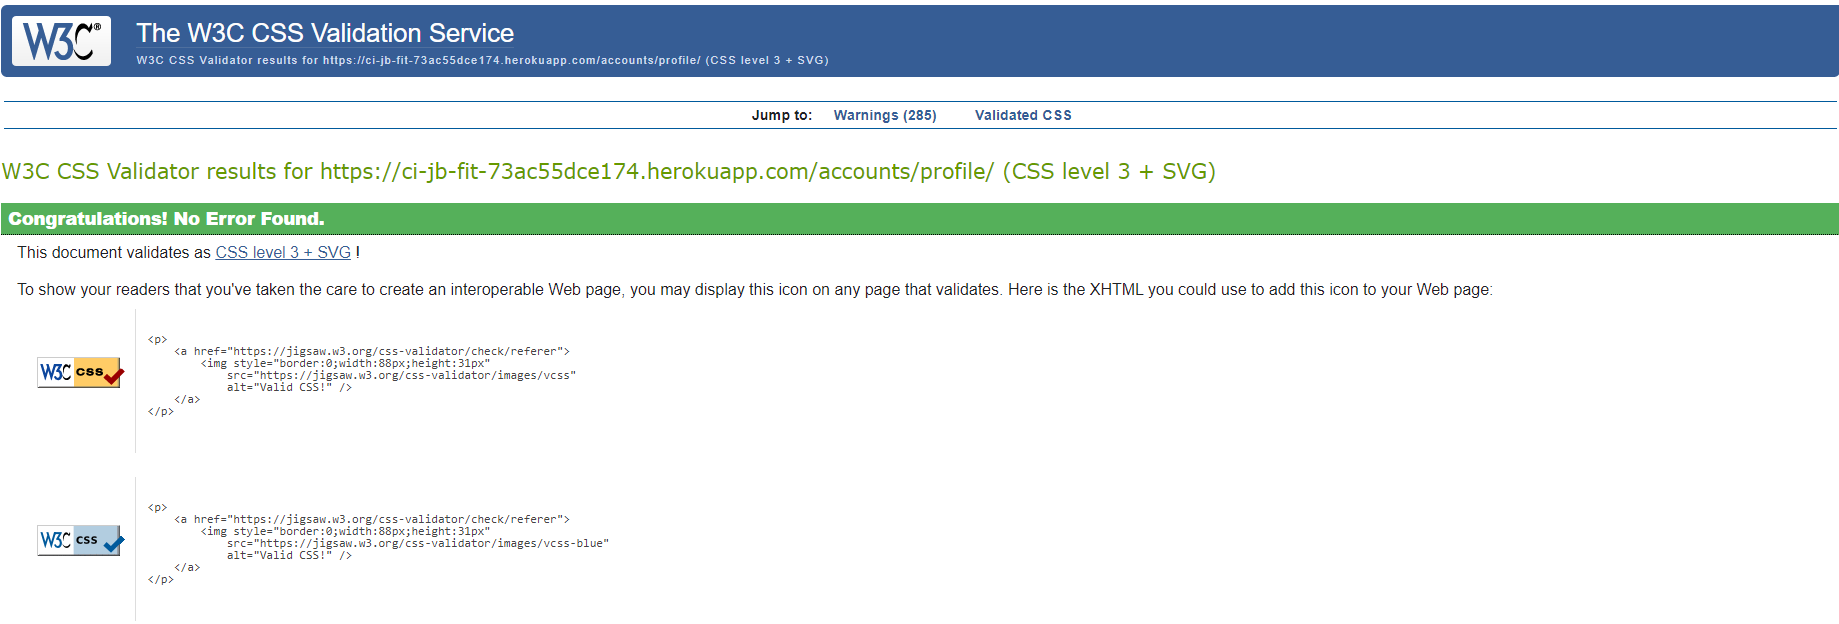
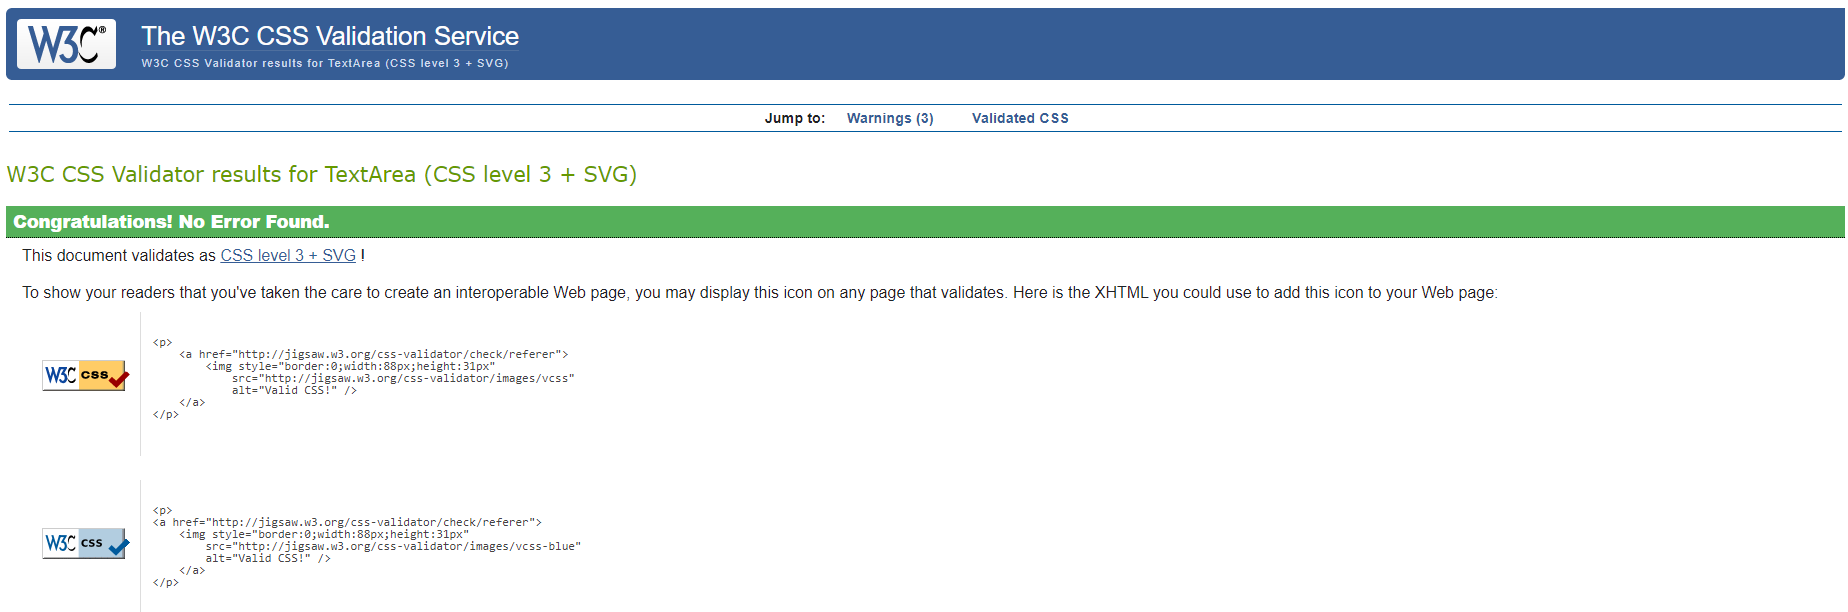
feat: add css validation to testing

diff --git a/home/templates/home/home.html b/home/templates/home/home.html
@@ -17,7 +17,6 @@
         <div class="container py-5">
             <h1 class="display-4 fw-bold text-white mb-3">Transform Your Life with Personal Online Fitness Coaching</h1>
             <p class="lead text-white mb-3">Achieve your fitness goals with personalized training programs tailored to your needs.</p>
-            <a href="" class="btn btn-primary btn-lg bg-primary bg-gradient text-center">Start Your Journey</a>
         </div>
     </section>
 

diff --git a/checkout/static/checkout/css/checkout.css b/checkout/static/checkout/css/checkout.css
@@ -7,7 +7,3 @@
   width: 100%;
   padding: 11px 15px 11px 0;
 }
-
-
-
-

diff --git a/TESTING.md b/TESTING.md
@@ -26,3 +26,13 @@ I have used the recommended [HTML W3C Validator](https://validator.w3.org) to va
 | | login.html | ![screenshot](documentation/testing/validation/html/html-validation-login.png) | |
 | | password_reset.html | ![screenshot](documentation/testing/validation/html/html-validation-password-reset.png) | |
 | | password_reset_done.html | ![screenshot](documentation/testing/validation/html/html-validation-password-reset-done.png) | |
+
+### CSS
+
+I have used the recommended [CSS Jigsaw Validator](https://jigsaw.w3.org/css-validator) to validate all of my CSS files.
+
+| Directory | File | Screenshot | Notes |
+| --- | --- | --- | --- |
+| accounts | profile.css | ![screenshot](documentation/testing/validation/css/css-validation-profile.png) | |
+| checkout | checkout.css | ![screenshot](documentation/testing/validation/css/css-validation-checkout.png) | |
+| static | base.css | ![screenshot](documentation/testing/validation/css/css-validation-base.png) | |
